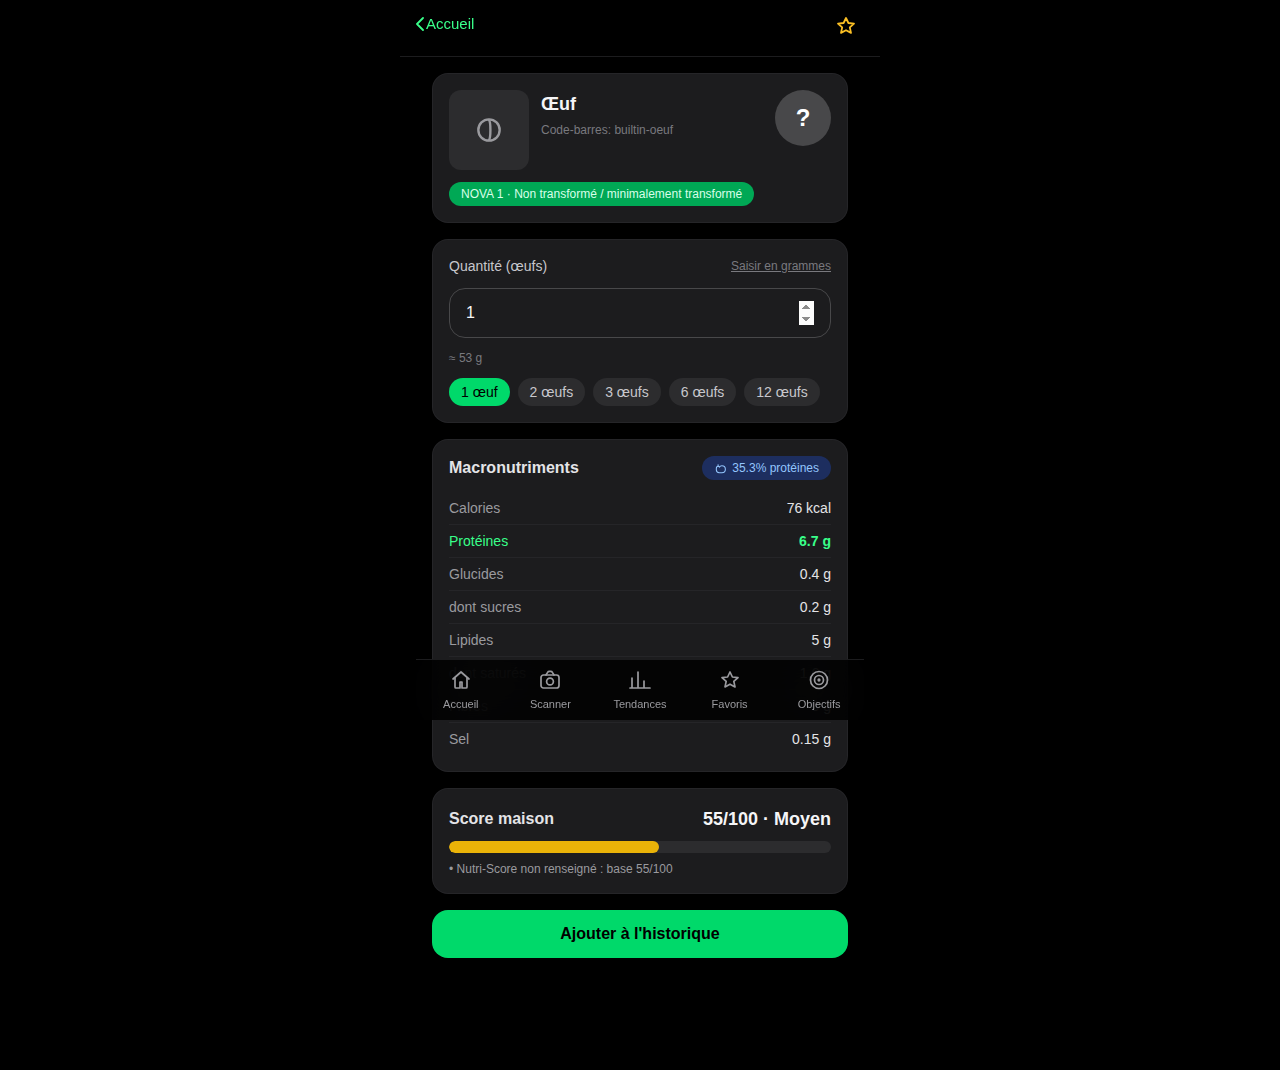
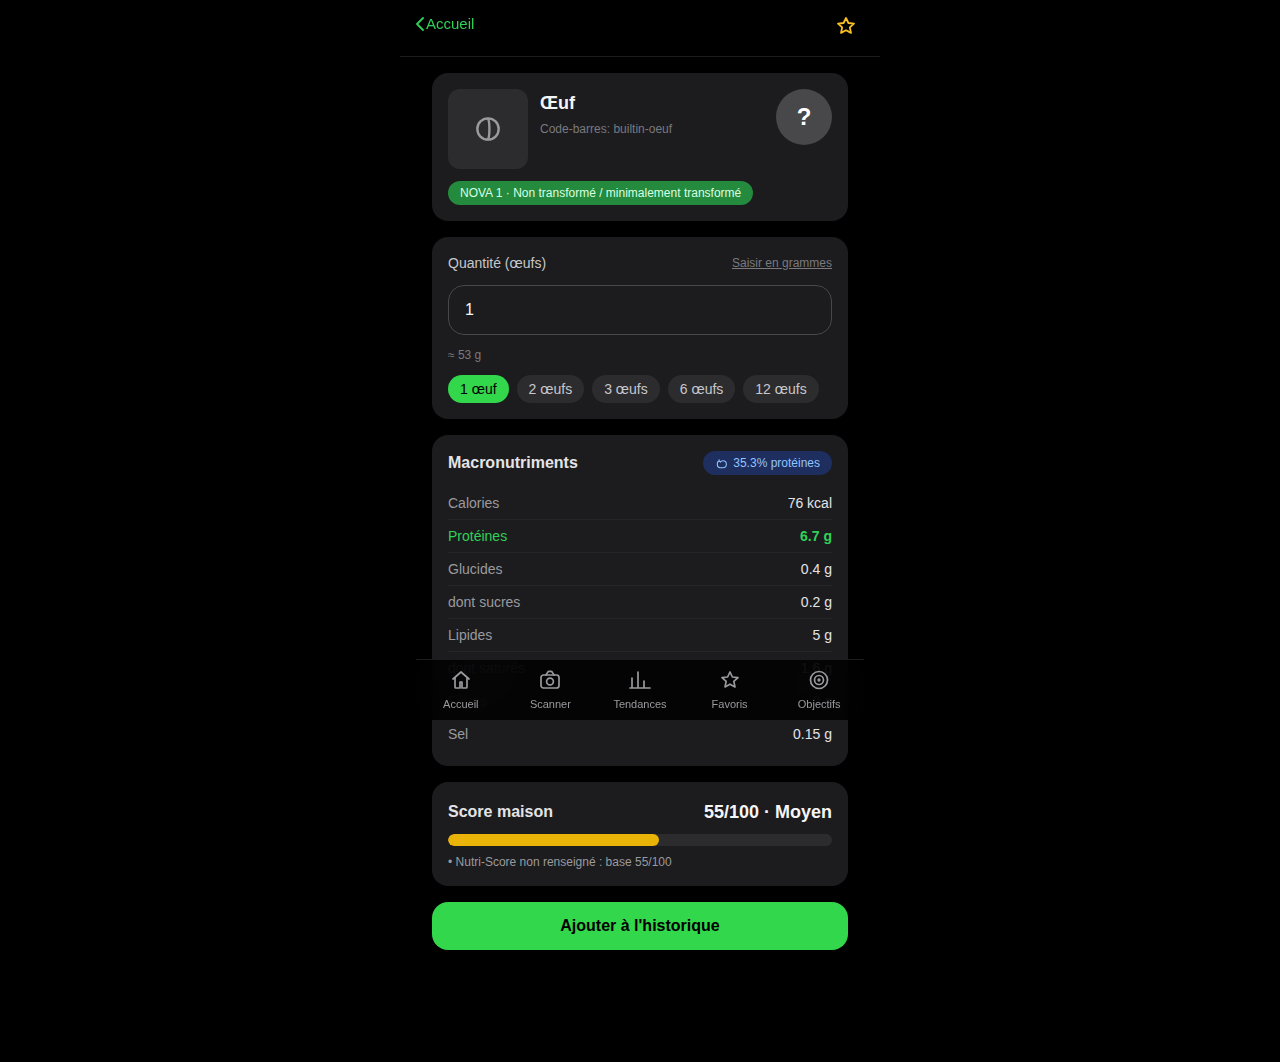
Trade neon glow for genuine Apple system colors and flat surfaces (#26)
The all-neon pass read as a flashy web app, not native iOS. Rework
toward what Réglages/Santé/Wallet actually do:

- Replace the custom neon green with Apple's real systemGreen so the
  accent isn't a one-off brand color.
- Drop borders and box-shadows from .card/.list-group/.quick-tile -
  iOS distinguishes a grouped surface from the page by a background
  tint, not a drawn border, and remove the colored glow on the primary
  button and calorie ring for the same reason.
- Switch every row/tile icon from a translucent circle to a solid-fill
  rounded square (Réglages' Wi-Fi/Bluetooth/etc. convention), each
  tinted with one of Apple's actual system colors (blue, purple, teal,
  orange, yellow, indigo) so the app stays colorful through icon
  identity rather than an all-over color wash.
- Macro/chart colors moved to the matching Apple system hues
  (systemBlue/Orange/Pink, systemRed for "over goal").

Verified: lint, typecheck, unit tests (115), full e2e suite (35 -
unaffected, only colors/shape changed), a manual screenshot pass of
home and trends with a real logged entry, and a production build.

diff --git a/src/app/page.tsx b/src/app/page.tsx
@@ -19,17 +19,19 @@ import {
   IconStar,
 } from "@/components/icons";
 
+// Apple's system color palette (dark mode) - each row/tile gets one, the
+// way Wi-Fi/Bluetooth/etc. do in Réglages, instead of a single flat tint.
 const QUICK_ACTIONS = [
-  { href: "/describe", label: "Décrire un plat (IA)", Icon: IconSparkles, tint: "rgba(0,194,255,0.2)", color: "#00C2FF" },
-  { href: "/foods", label: "Aliments courants", Icon: IconMeal, tint: "rgba(57,255,138,0.2)", color: "#39FF8A" },
-  { href: "/add/drink", label: "Ajouter une boisson", Icon: IconDrink, tint: "rgba(255,179,0,0.2)", color: "#FFB300" },
-  { href: "/add", label: "Ajouter un produit", Icon: IconPlus, tint: "rgba(255,77,109,0.2)", color: "#FF4D6D" },
+  { href: "/describe", label: "Décrire un plat (IA)", Icon: IconSparkles, color: "#BF5AF2" },
+  { href: "/foods", label: "Aliments courants", Icon: IconMeal, color: "#30D158" },
+  { href: "/add/drink", label: "Ajouter une boisson", Icon: IconDrink, color: "#64D2FF" },
+  { href: "/add", label: "Ajouter un produit", Icon: IconPlus, color: "#FF9F0A" },
 ];
 
 const EXPLORE_LINKS = [
-  { href: "/history", label: "Historique", Icon: IconClock },
-  { href: "/favorites", label: "Favoris", Icon: IconStar },
-  { href: "/recipes", label: "Mes recettes", Icon: IconBook },
+  { href: "/history", label: "Historique", Icon: IconClock, color: "#0A84FF" },
+  { href: "/favorites", label: "Favoris", Icon: IconStar, color: "#FFD60A" },
+  { href: "/recipes", label: "Mes recettes", Icon: IconBook, color: "#5E5CE6" },
 ];
 
 export default function HomePage() {
@@ -67,7 +69,7 @@ export default function HomePage() {
     <main className="pb-6">
       <PageHeader title="Accueil" />
       <div className="space-y-5 px-4 pt-3">
-        <Link href="/scan" className="btn-primary glow-primary w-full text-[15px]">
+        <Link href="/scan" className="btn-primary w-full text-[15px]">
           <IconCamera className="h-5 w-5" aria-hidden />
           Scanner un produit
         </Link>
@@ -75,12 +77,12 @@ export default function HomePage() {
         {!loading && goals && (
           <section>
             <h2 className="section-label">Aujourd&apos;hui</h2>
-            <Link href="/goals" className="card glow-ring flex items-center gap-4">
+            <Link href="/goals" className="card flex items-center gap-4">
               <CalorieRing value={totals.energyKcal} goal={goals.energyKcal} />
               <dl className="flex-1 space-y-2">
-                <MacroLegendRow color="#00C2FF" label="Protéines" value={totals.proteins} goal={goals.proteins} />
-                <MacroLegendRow color="#FFB300" label="Glucides" value={totals.carbohydrates} goal={goals.carbohydrates} />
-                <MacroLegendRow color="#FF4D6D" label="Lipides" value={totals.fat} goal={goals.fat} />
+                <MacroLegendRow color="#0A84FF" label="Protéines" value={totals.proteins} goal={goals.proteins} />
+                <MacroLegendRow color="#FF9F0A" label="Glucides" value={totals.carbohydrates} goal={goals.carbohydrates} />
+                <MacroLegendRow color="#FF375F" label="Lipides" value={totals.fat} goal={goals.fat} />
               </dl>
               <IconChevronRight className="chevron h-3.5 w-2 self-center" aria-hidden />
             </Link>
@@ -90,10 +92,10 @@ export default function HomePage() {
         <section>
           <h2 className="section-label">Actions rapides</h2>
           <div className="grid grid-cols-4 gap-2">
-            {QUICK_ACTIONS.map(({ href, label, Icon, tint, color }) => (
+            {QUICK_ACTIONS.map(({ href, label, Icon, color }) => (
               <Link key={href} href={href} className="quick-tile" title={label}>
-                <span className="quick-tile-icon" style={{ background: tint }}>
-                  <Icon className="h-5 w-5" style={{ color }} aria-hidden />
+                <span className="quick-tile-icon" style={{ background: color }}>
+                  <Icon className="h-[18px] w-[18px] text-white" aria-hidden />
                 </span>
                 <span className="text-[11px] font-medium leading-tight text-slate-300">{label}</span>
               </Link>
@@ -109,10 +111,10 @@ export default function HomePage() {
                 <Link key={entry.barcode} href={`/product?barcode=${entry.barcode}`} className="list-row">
                   {entry.imageUrl ? (
                     // eslint-disable-next-line @next/next/no-img-element
-                    <img src={entry.imageUrl} alt={entry.productName} className="h-11 w-11 flex-shrink-0 rounded-full bg-white object-contain" />
+                    <img src={entry.imageUrl} alt={entry.productName} className="h-[29px] w-[29px] flex-shrink-0 rounded-[8px] bg-white object-contain" />
                   ) : (
                     <div className="row-icon">
-                      <IconMeal className="h-[18px] w-[18px] text-slate-400" aria-hidden />
+                      <IconMeal className="h-4 w-4 text-slate-300" aria-hidden />
                     </div>
                   )}
                   <div className="min-w-0 flex-1">
@@ -129,10 +131,10 @@ export default function HomePage() {
         <section>
           <h2 className="section-label">Explorer</h2>
           <div className="list-group">
-            {EXPLORE_LINKS.map(({ href, label, Icon }) => (
+            {EXPLORE_LINKS.map(({ href, label, Icon, color }) => (
               <Link key={href} href={href} className="list-row">
-                <span className="row-icon">
-                  <Icon className="h-[18px] w-[18px] text-green-400" aria-hidden />
+                <span className="row-icon" style={{ background: color }}>
+                  <Icon className="h-4 w-4 text-white" aria-hidden />
                 </span>
                 <span className="flex-1 text-[15px] text-slate-100">{label}</span>
                 <IconChevronRight className="chevron h-3.5 w-2" aria-hidden />
@@ -148,7 +150,7 @@ export default function HomePage() {
 function MacroLegendRow({ color, label, value, goal }: { color: string; label: string; value: number; goal: number }) {
   const percent = goal > 0 ? Math.min(100, Math.round((value / goal) * 100)) : 0;
   const over = goal > 0 && value > goal;
-  const barColor = over ? "#FF3B5C" : color;
+  const barColor = over ? "#FF453A" : color;
 
   return (
     <div className="space-y-1">

diff --git a/src/app/globals.css b/src/app/globals.css
@@ -16,14 +16,17 @@ body {
 }
 
 @layer components {
+  /* Grouped-table-view surface: iOS distinguishes a card from the page by a
+     faint tint difference, not a drawn border or shadow. */
   .card {
-    @apply rounded-2xl border border-slate-700/60 bg-slate-800 p-4 shadow-sm;
+    @apply rounded-2xl bg-slate-800 p-4;
   }
 
-  /* Neon bg reads brightest with dark text, not white - same treatment
-     as a real neon sign. */
+  /* systemGreen is high-luminance (green channel dominates perceived
+     brightness), so black text clears contrast by a wide margin where
+     white would not - same call iOS makes on tinted-green fills. */
   .btn-primary {
-    @apply inline-flex items-center justify-center gap-2 rounded-2xl bg-green-600 px-4 py-3 font-bold text-black transition active:scale-95 hover:bg-green-500 disabled:opacity-50 disabled:active:scale-100;
+    @apply inline-flex items-center justify-center gap-2 rounded-2xl bg-green-600 px-4 py-3 font-semibold text-black transition active:scale-95 hover:bg-green-500 disabled:opacity-50 disabled:active:scale-100;
   }
 
   .btn-secondary {
@@ -72,15 +75,19 @@ body {
 
   /* Grouped iOS list: rows are direct children, separated by hairlines. */
   .list-group {
-    @apply divide-y divide-slate-700/60 overflow-hidden rounded-2xl border border-slate-700/60 bg-slate-800;
+    @apply divide-y divide-white/[0.06] overflow-hidden rounded-2xl bg-slate-800;
   }
 
   .list-row {
-    @apply flex items-center gap-3 px-4 py-3;
+    @apply flex min-h-[44px] items-center gap-3 px-4 py-2.5;
   }
 
+  /* Settings-app icon convention: a solid-fill rounded square (not a
+     translucent circle) so each row reads as its own category color at a
+     glance, the way Wi-Fi/Bluetooth/etc. do in Réglages. Color comes from
+     an inline style per call site; this just sets the shared shape. */
   .row-icon {
-    @apply flex h-9 w-9 flex-shrink-0 items-center justify-center rounded-full bg-slate-700;
+    @apply flex h-[29px] w-[29px] flex-shrink-0 items-center justify-center rounded-[8px] bg-slate-600;
   }
 
   .chevron {
@@ -121,19 +128,11 @@ body {
   }
 
   .quick-tile {
-    @apply flex flex-col items-center gap-2 rounded-2xl border border-slate-700/60 bg-slate-800 px-2 py-3.5 text-center transition active:scale-95;
+    @apply flex flex-col items-center gap-2 rounded-2xl bg-slate-800 px-2 py-3.5 text-center transition active:scale-95;
   }
 
   .quick-tile-icon {
-    @apply flex h-10 w-10 items-center justify-center rounded-full;
-  }
-
-  .glow-primary {
-    box-shadow: 0 6px 28px -4px rgba(18, 232, 112, 0.65);
-  }
-
-  .glow-ring {
-    box-shadow: 0 0 0 1px rgba(255, 255, 255, 0.04), 0 10px 34px -10px rgba(18, 232, 112, 0.45);
+    @apply flex h-9 w-9 items-center justify-center rounded-[9px];
   }
 }
 

diff --git a/src/components/TrendsChart.tsx b/src/components/TrendsChart.tsx
@@ -28,7 +28,7 @@ export default function TrendsChart({ days, goalKcal }: TrendsChartProps) {
         aria-label="Calories consommées par jour"
       >
         {goalKcal > 0 && (
-          <line x1={0} x2={chartWidth} y1={goalY} y2={goalY} stroke="#FFB300" strokeDasharray="4 3" strokeWidth={1} />
+          <line x1={0} x2={chartWidth} y1={goalY} y2={goalY} stroke="#FF9F0A" strokeDasharray="4 3" strokeWidth={1} />
         )}
         {days.map((day, i) => {
           const barHeight = (day.macros.energyKcal / maxValue) * PLOT_HEIGHT;
@@ -41,7 +41,7 @@ export default function TrendsChart({ days, goalKcal }: TrendsChartProps) {
                 width={barWidth}
                 height={day.macros.energyKcal > 0 ? Math.max(barHeight, 2) : 0}
                 rx={2}
-                fill={over ? "#FFB300" : "#12E870"}
+                fill={over ? "#FF453A" : "#30D158"}
               />
               <text
                 x={i * slotWidth + slotWidth / 2}

diff --git a/src/components/CalorieRing.tsx b/src/components/CalorieRing.tsx
@@ -12,7 +12,7 @@ export default function CalorieRing({ value, goal, size = 104 }: CalorieRingProp
   const offset = circumference * (1 - percent);
   const over = goal > 0 && value > goal;
 
-  const activeColor = over ? "#FFB300" : "#12E870";
+  const activeColor = over ? "#FF453A" : "#30D158";
 
   return (
     <div className="relative flex-shrink-0" style={{ width: size, height: size }}>
@@ -28,10 +28,7 @@ export default function CalorieRing({ value, goal, size = 104 }: CalorieRingProp
           strokeLinecap="round"
           strokeDasharray={circumference}
           strokeDashoffset={offset}
-          style={{
-            transition: "stroke-dashoffset 0.5s ease",
-            filter: `drop-shadow(0 0 6px ${activeColor}99)`,
-          }}
+          style={{ transition: "stroke-dashoffset 0.5s ease" }}
         />
       </svg>
       <div className="absolute inset-0 flex flex-col items-center justify-center">

diff --git a/src/components/HistoryList.tsx b/src/components/HistoryList.tsx
@@ -38,10 +38,10 @@ export default function HistoryList({ entries, onDelete, limitDays }: HistoryLis
               <div key={entry.id} className="list-row">
                 {entry.imageUrl ? (
                   // eslint-disable-next-line @next/next/no-img-element
-                  <img src={entry.imageUrl} alt={entry.productName} className="h-11 w-11 flex-shrink-0 rounded-full bg-white object-contain" />
+                  <img src={entry.imageUrl} alt={entry.productName} className="h-[29px] w-[29px] flex-shrink-0 rounded-[8px] bg-white object-contain" />
                 ) : (
                   <div className="row-icon">
-                    <IconMeal className="h-[18px] w-[18px] text-slate-400" aria-hidden />
+                    <IconMeal className="h-4 w-4 text-slate-300" aria-hidden />
                   </div>
                 )}
                 <div className="min-w-0 flex-1">

diff --git a/src/app/favorites/page.tsx b/src/app/favorites/page.tsx
@@ -41,10 +41,10 @@ export default function FavoritesPage() {
               <div key={fav.barcode} className="list-row">
                 {fav.imageUrl ? (
                   // eslint-disable-next-line @next/next/no-img-element
-                  <img src={fav.imageUrl} alt={fav.productName} className="h-11 w-11 flex-shrink-0 rounded-full bg-white object-contain" />
+                  <img src={fav.imageUrl} alt={fav.productName} className="h-[29px] w-[29px] flex-shrink-0 rounded-[8px] bg-white object-contain" />
                 ) : (
                   <div className="row-icon">
-                    <IconMeal className="h-[18px] w-[18px] text-slate-400" aria-hidden />
+                    <IconMeal className="h-4 w-4 text-slate-300" aria-hidden />
                   </div>
                 )}
                 <div className="min-w-0 flex-1">

diff --git a/tailwind.config.ts b/tailwind.config.ts
@@ -27,14 +27,15 @@ const config: Config = {
           900: "#131314",
           950: "#000000",
         },
-        // Neon accent, standing in for the default Tailwind green - reads
-        // as electric on the true-black background instead of muted.
+        // Apple's actual systemGreen (dark mode), standing in for the
+        // default Tailwind green - reads as native iOS rather than a
+        // custom brand color.
         green: {
-          100: "#D8FFE9",
-          400: "#39FF8A",
-          500: "#12E870",
-          600: "#00D96A",
-          700: "#00A855",
+          100: "#D8FFE3",
+          400: "#30D158",
+          500: "#30D158",
+          600: "#32D74B",
+          700: "#248A3D",
         },
       },
     },
